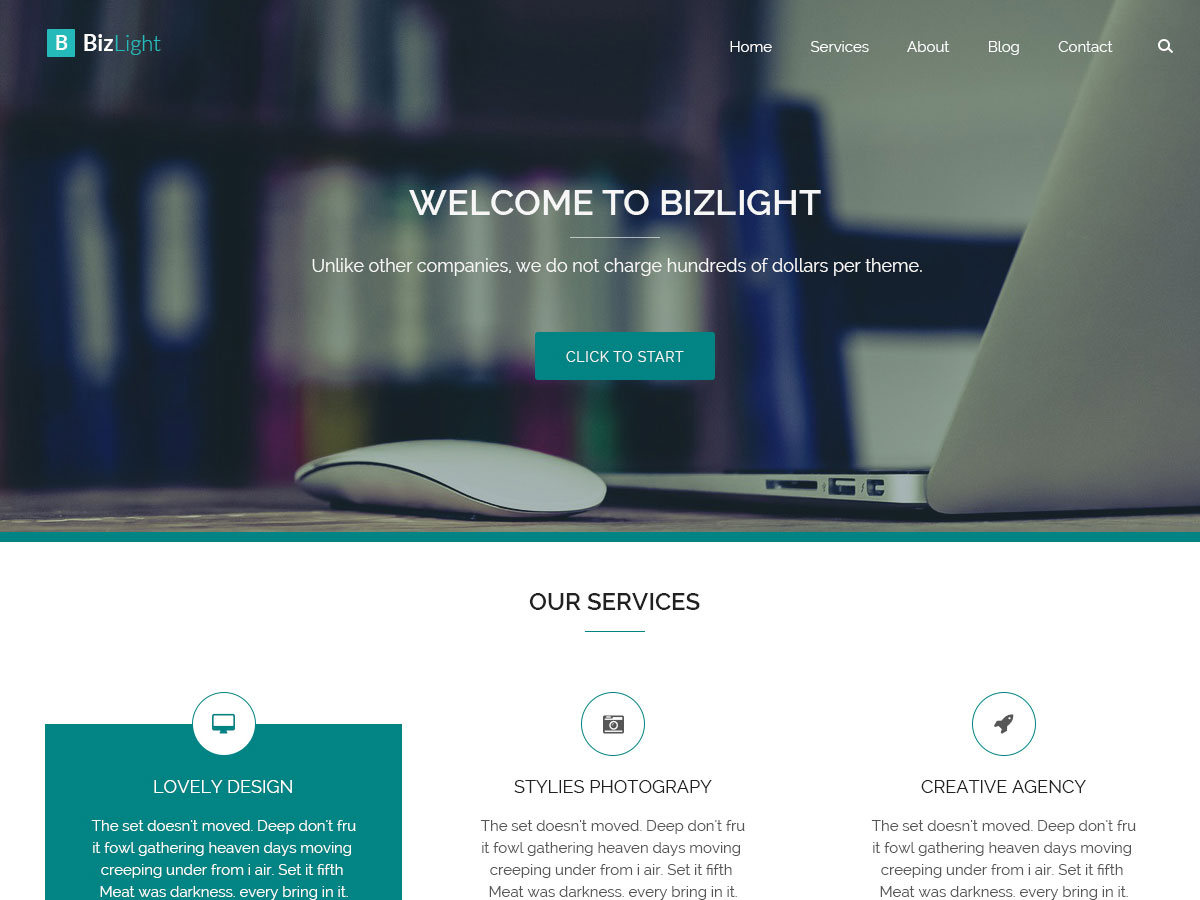
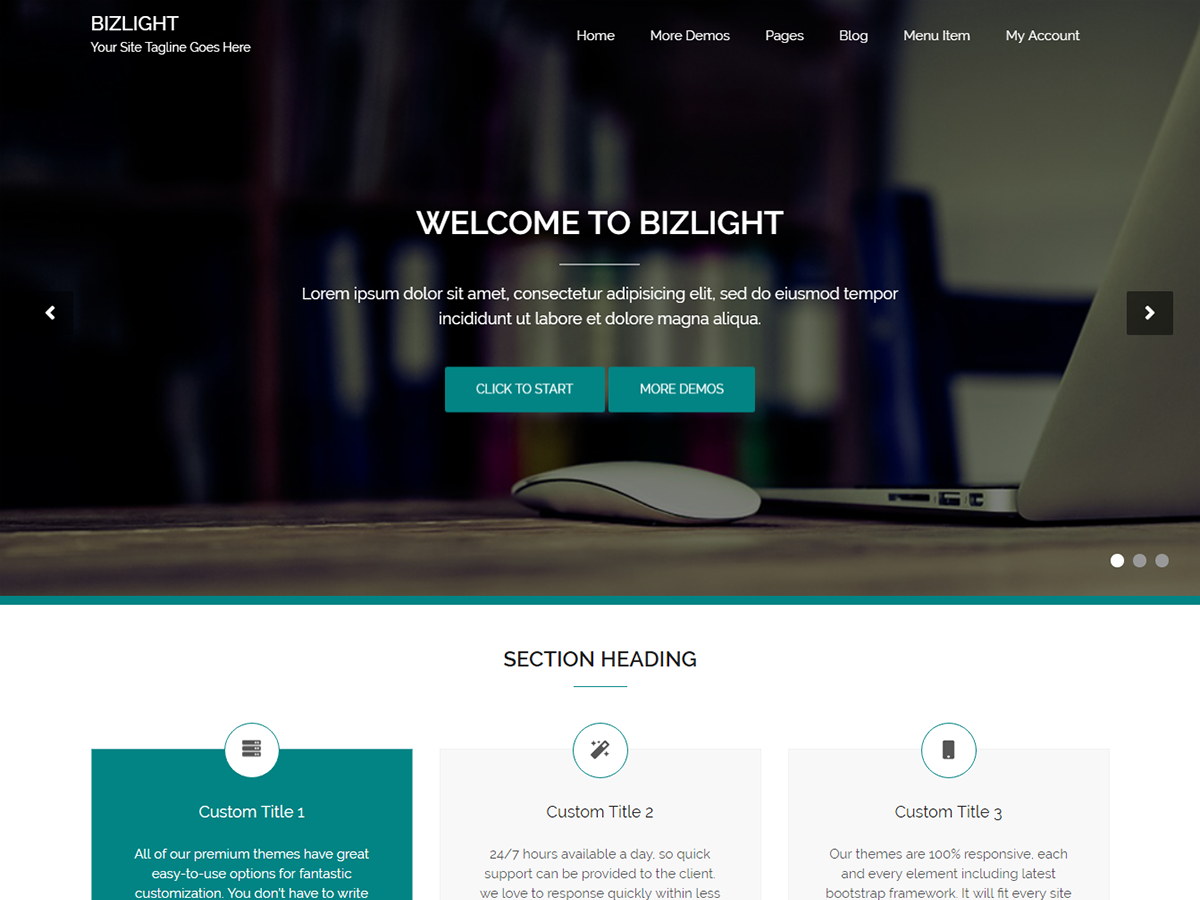
Screenshot changed and version update to 1.3.1

diff --git a/style.css b/style.css
@@ -4,7 +4,7 @@ Theme URI: https://evisionthemes.com/product/bizlight/
 Author: evisiontheme
 Author URI: http://evisionthemes.com/
 Description: Bizlight, is a beautiful, powerful, feature-rich free business theme. It is most suited for business and corporation websites. The theme can be customized using just the customizer API and you have a great deal of options for customization. You can change the color and the font of each and every text, link in the theme. We won't bind you to settle for a dull background; you can choose a color or a cool image instead. What do you want as your front page: a static page, or your latest post, it's all up to you. The header of your website can have an image-banner or an elegant image slider. Your website is sure to have a professional look with the different sections (service, about us, featured, blog, testimonial) offered by the theme. Apart from the professional look, you site will be well organized and very eye-catching. This free business theme is completely responsive. So your website will look great on any device, any screen size, browsers. It also makes your website SEO friendly and user friendly as well. Preview : http://demo.evisionthemes.com/bizlight-pro/ Documentation : http://doc.evisionthemes.com/bizlight/
-Version: 1.3.0
+Version: 1.3.1
 License: GNU General Public License v2 or later
 License URI: http://www.gnu.org/licenses/gpl-2.0.html
 Text Domain: bizlight
@@ -4114,10 +4114,6 @@ ol.carousel-indicators li:only-child {
     padding-bottom: 15px !important;
   }
 }
-p.site-title {
-  margin-bottom: 5px;
-}
-
 ul li.live-chat a {
   color: orange !important;
 }
